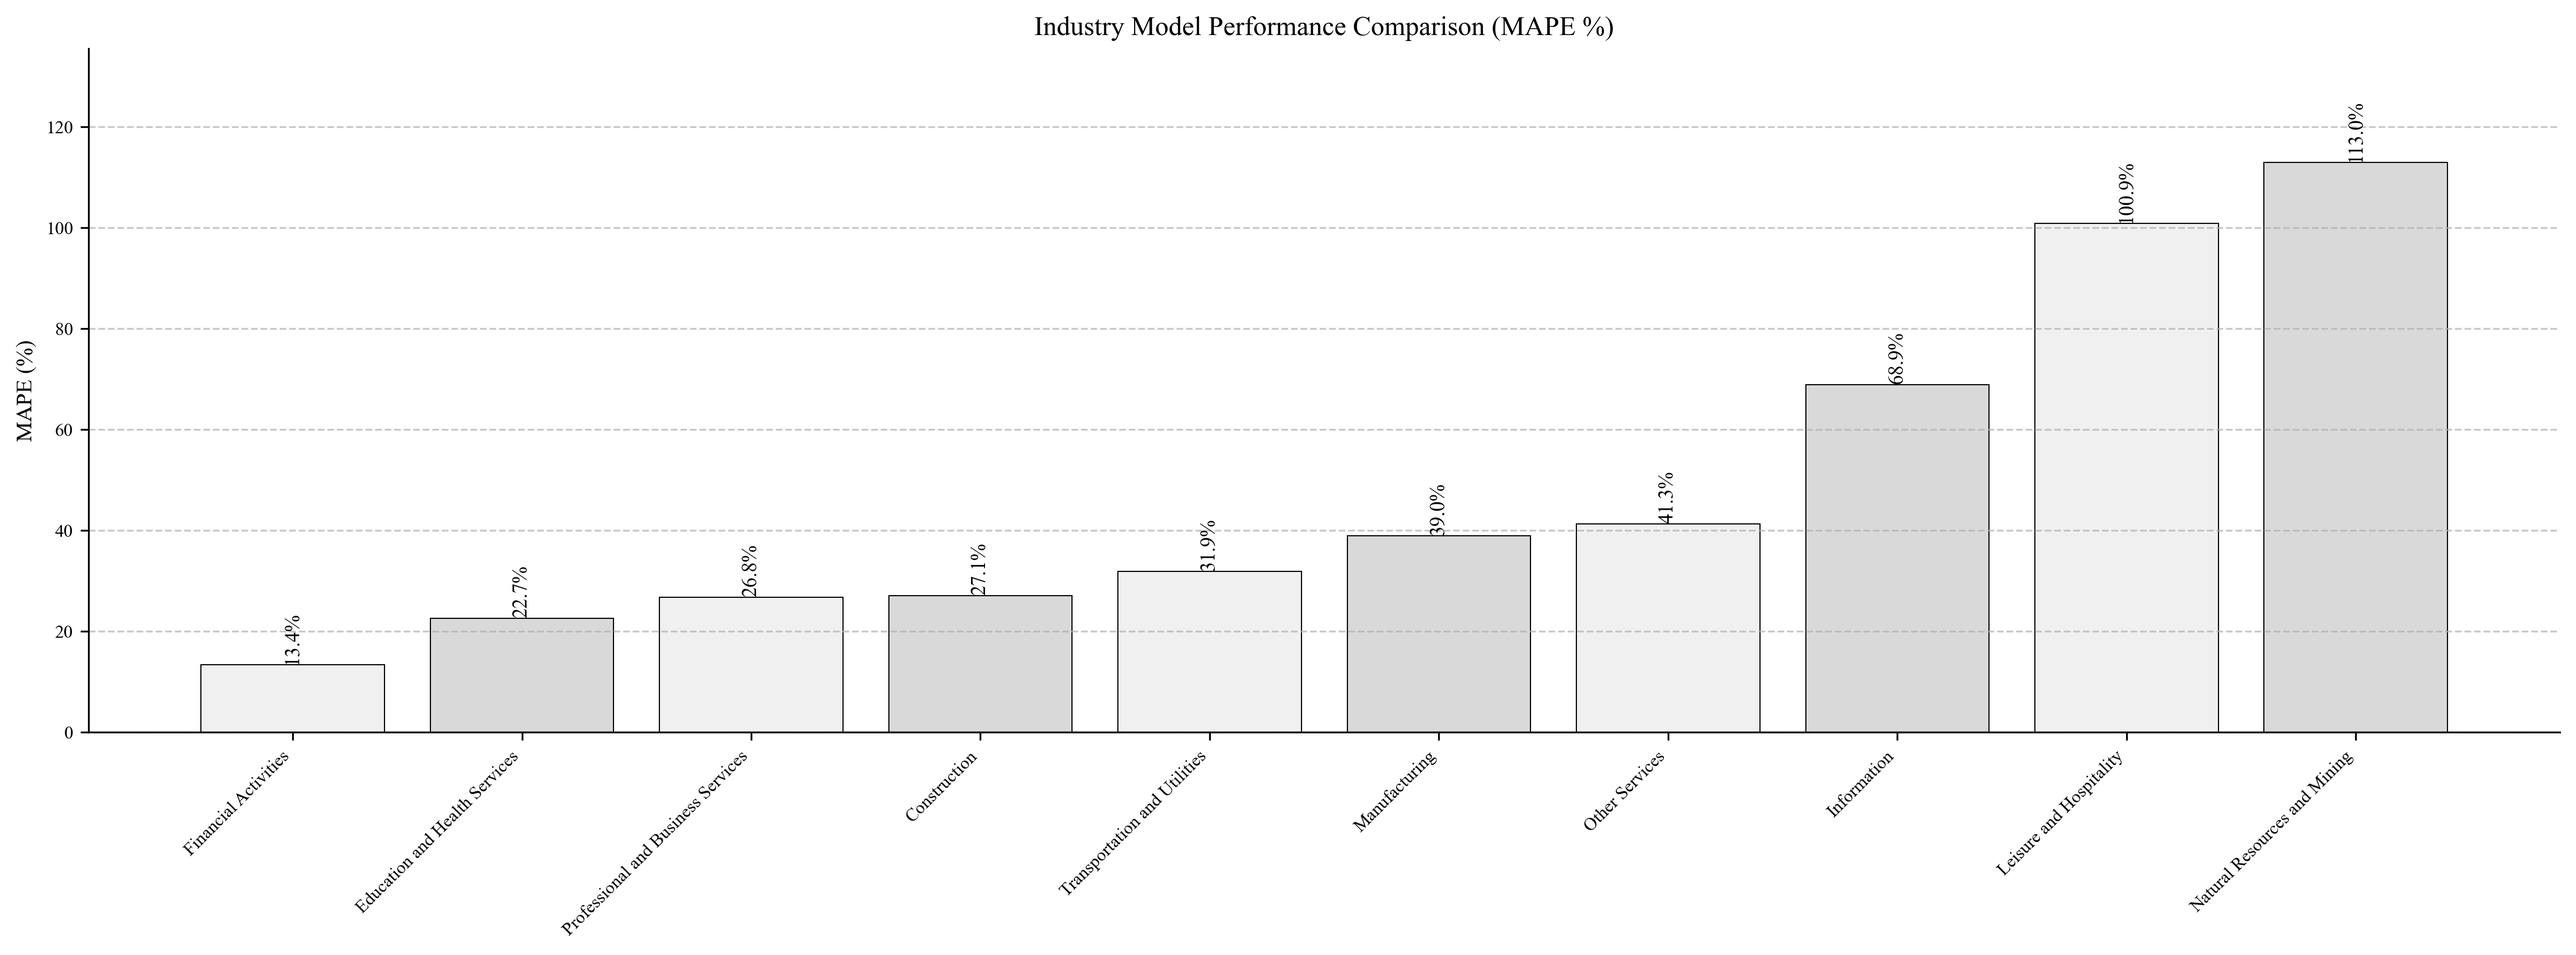
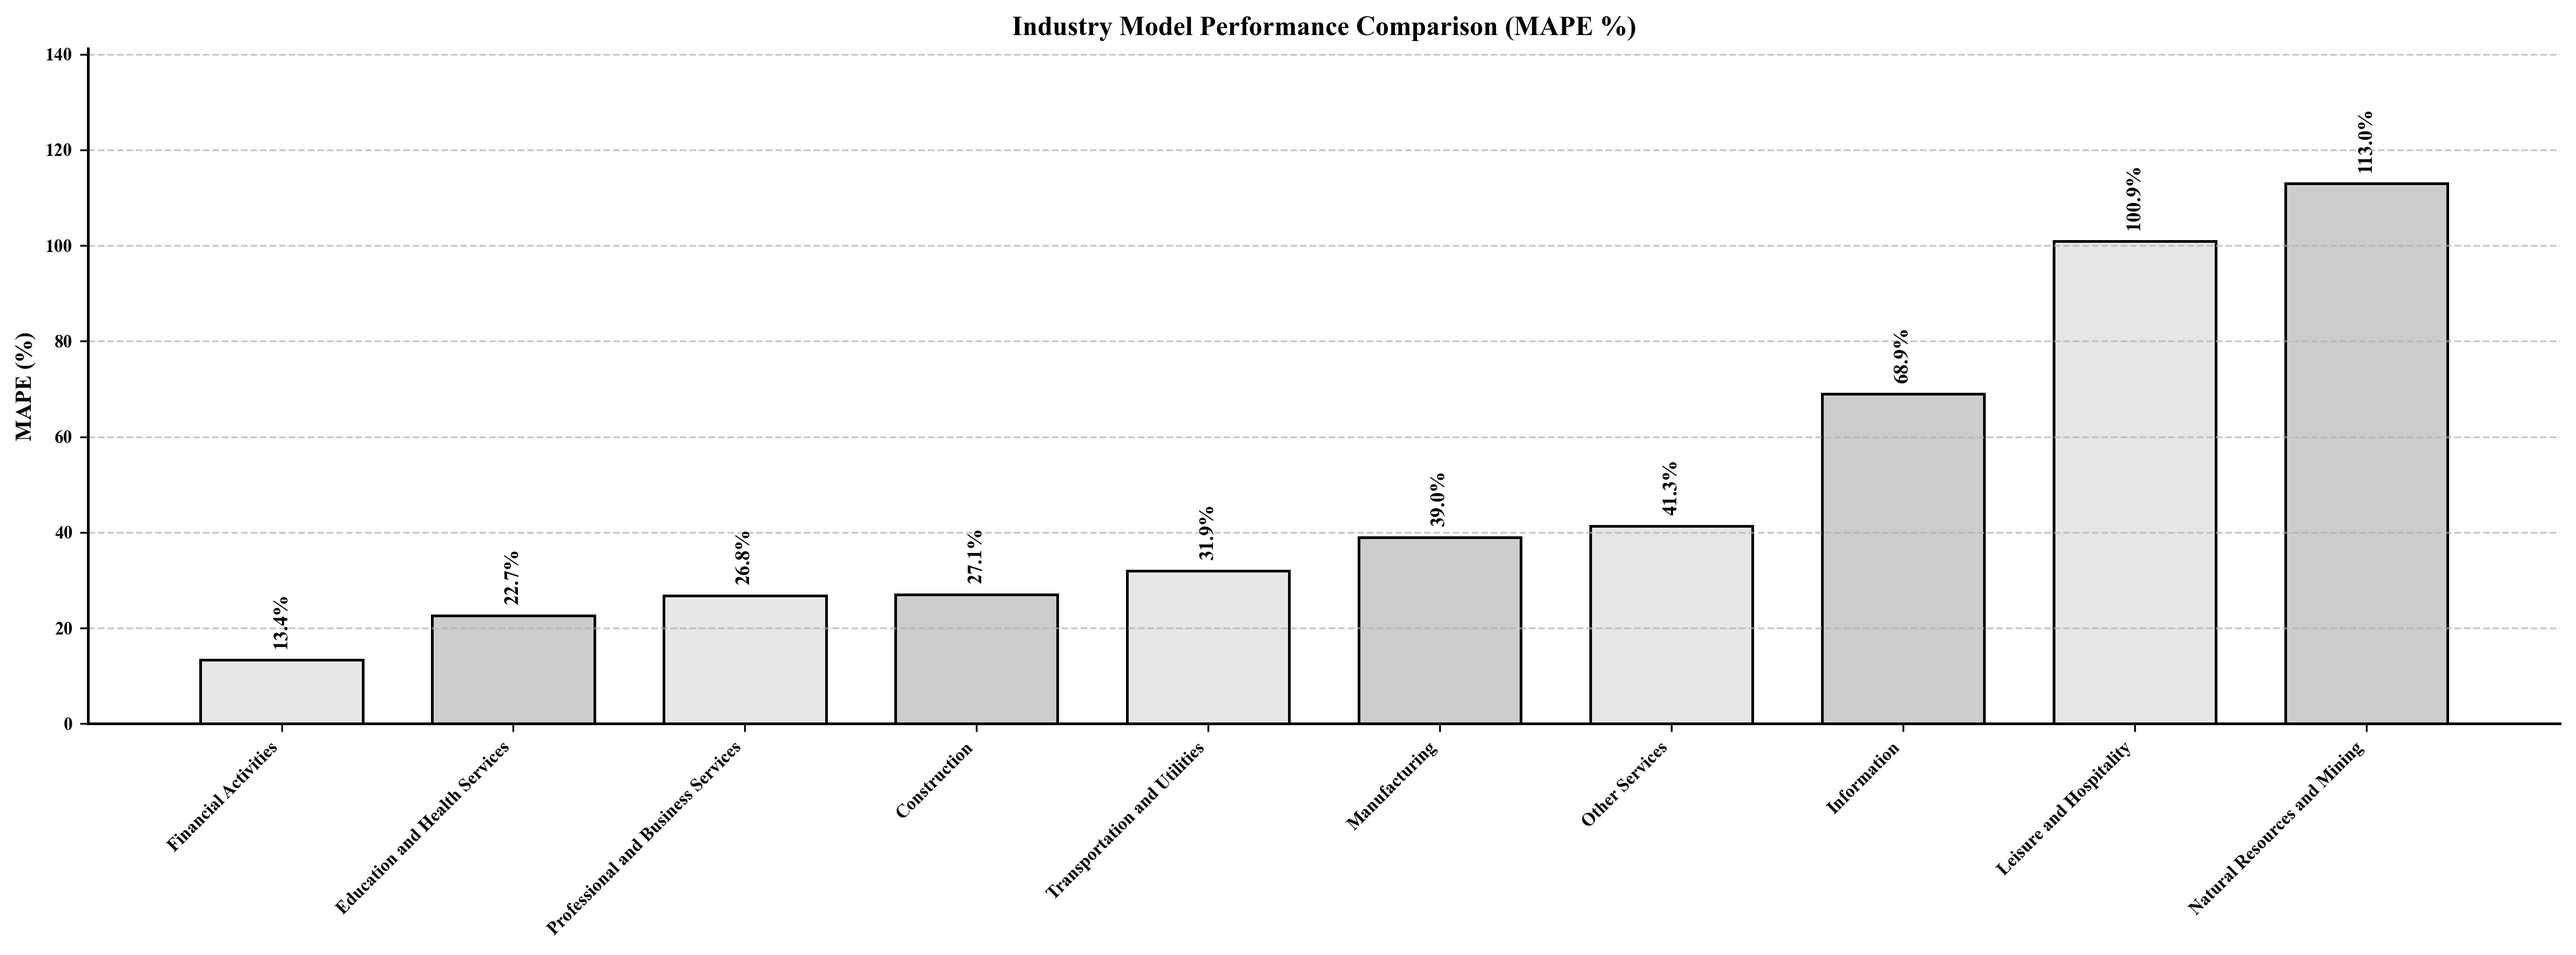
added filtered MAPE comparison

diff --git a/src/visualization/plotter.py b/src/visualization/plotter.py
@@ -355,32 +355,47 @@ def plot_all_industries_mape(industry_metrics, feature_name='y', savepath=None, 
     fig, ax = plt.subplots(figsize=(16, 6))  # Wider and shorter for double column
     
     # Create the bars with alternating colors
-    bar_colors = ['#f0f0f0', '#d9d9d9']  # Light gray alternating with slightly darker gray
+    bar_colors = ['#e6e6e6', '#cccccc']  # Solid light gray alternating with solid medium gray
+    
+    # Make the bars skinnier with spacing between them
+    bar_width = 0.7  # Skinnier bars (default is 0.8)
     
     bars = ax.bar(industries, mape_values, 
+                 width=bar_width,
                  color=[bar_colors[i % 2] for i in range(len(industries))],
-                 edgecolor='black', linewidth=0.5)
+                 edgecolor='black', 
+                 linewidth=1.2,  # Thicker outlines
+                 alpha=1.0)  # Fully opaque, no translucency
     
     # Add value labels on top of bars
     for bar, value in zip(bars, mape_values):
-        ax.text(bar.get_x() + bar.get_width()/2, value + 0.1,
+        ax.text(bar.get_x() + bar.get_width()/2, value + max(mape_values)*0.02,  # Position value labels slightly above bars
                 f"{value:.1f}%", ha='center', va='bottom', 
-                fontsize=9, rotation=90)
+                fontsize=9, rotation=90,
+                fontweight='bold')  # Make value labels bold
     
     # Add title and labels
     if config.VISUALIZATION_CONFIG['show_titles']:
-        ax.set_title(title)
-    ax.set_ylabel('MAPE (%)')
+        ax.set_title(title, fontweight='bold')  # Make title bold
+    ax.set_ylabel('MAPE (%)', fontweight='bold')  # Make axis label bold
     
     # Add y-axis grid lines
     ax.yaxis.grid(True, linestyle='--', alpha=0.7)
     
     # Rotate x-axis labels for better readability
-    plt.xticks(rotation=45, ha='right')
+    plt.xticks(rotation=45, ha='right', fontweight='bold')  # Make x-tick labels bold
+    
+    # Make y-tick labels bold
+    plt.yticks(fontweight='bold')
     
     # Set a reasonable y-axis limit based on the data
     max_value = max(mape_values)
-    plt.ylim(0, max_value * 1.2)  # Add 20% padding at the top
+    plt.ylim(0, max_value * 1.25)  # Add 15% padding at the top
+    
+    # Add a thin border around the plot
+    for spine in ax.spines.values():
+        spine.set_linewidth(1.2)
+        spine.set_color('black')
     
     # Adjust layout
     plt.tight_layout()

diff --git a/src/engine/evaluate.py b/src/engine/evaluate.py
@@ -214,7 +214,7 @@ def evaluate_all_industries():
                 filtered_metrics,
                 feature_name='y',
                 savepath=comparisons_dir / 'filtered_industries_mape_comparison.png',
-                title="Industry Model Performance Comparison - MAPE < 60%"
+                title="Industry Model Performance Comparison"
             )
             print(f"\nCreated filtered chart with {len(filtered_metrics)} industries (MAPE < 60%)")
         else:
